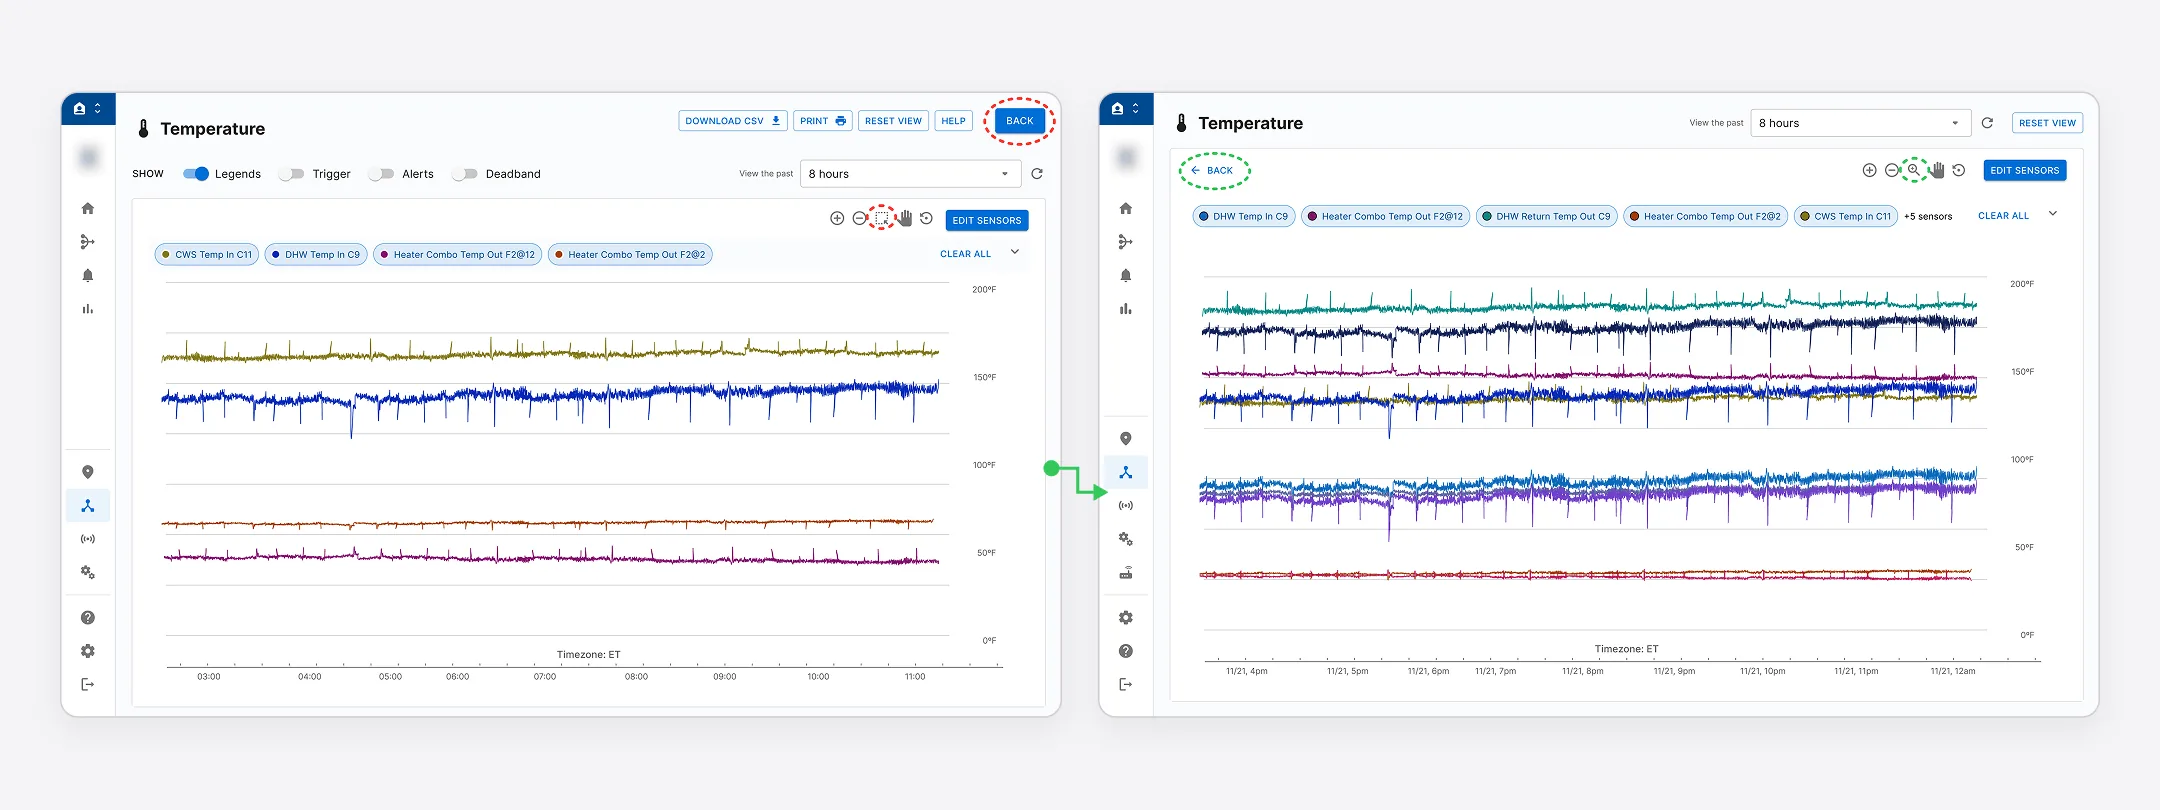
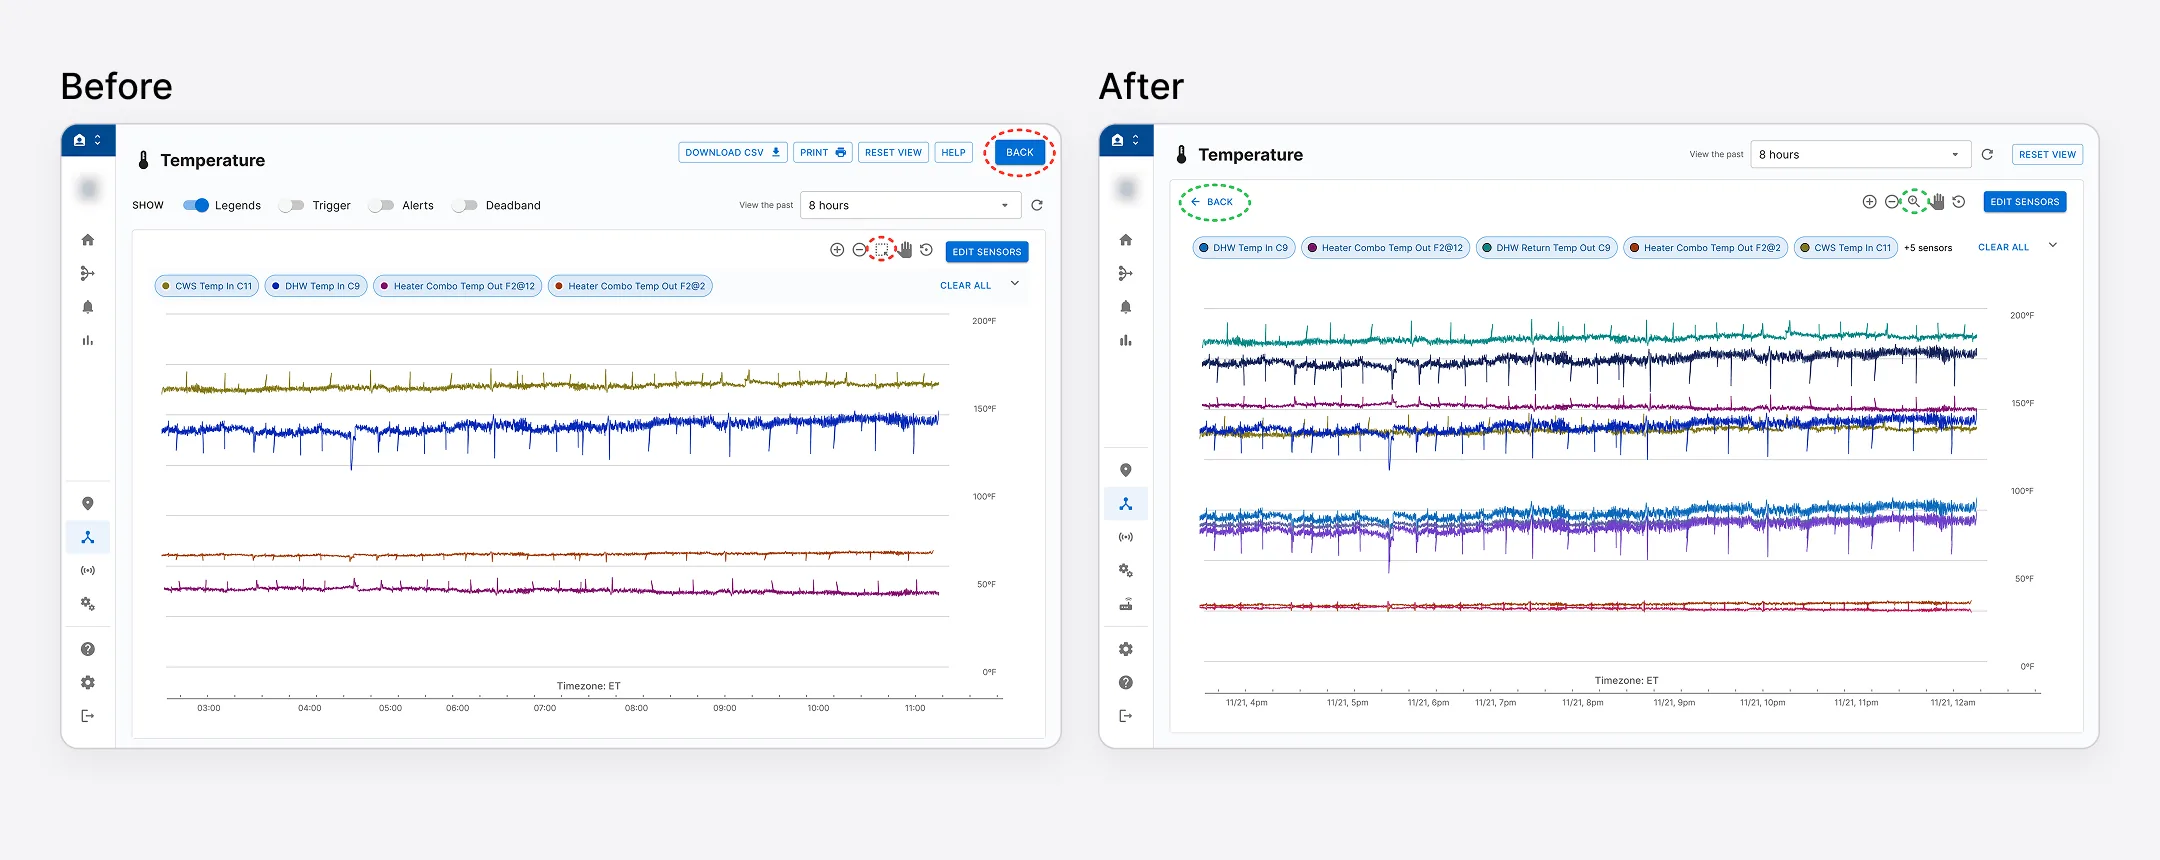
Replace Changes after testing images with labeled Before and After versions
Claude-Session: https://claude.ai/code/session_01ScZWVVZRBYns7XMJaBR5Qy

diff --git a/case-studies/charting.html b/case-studies/charting.html
@@ -167,11 +167,11 @@
 <p>We fixed them by removing the second “Clear” button, making “Back” more visible, enabling zoom by click-and-drag or click-and-scroll, adding a collapse option for filter chips, and changing the box selection icon.</p>
 <h4>Changes after testing - Multichart view</h4>
 <figure class="figure figure--wide">
-<img src="../assets/img/charting-final-multichart.webp" alt="Final multichart view mockups, before and after testing. The first screen marks the old box selection icon and the second Clear All button in red. The second screen shows the fixed zoom icon in green and a single Clear All button, with an Add chart button below the charts" width="2000" height="957" loading="lazy">
+<img src="../assets/img/charting-final-multichart.webp?v=2" alt="Multichart view mockups labeled Before and After. Before marks the old box selection icon and the second Clear All button in red. After shows the new zoom icon in green and a single Clear All button, with an Add chart button below the charts" width="2000" height="1030" loading="lazy">
 </figure>
 <h4>Changes after testing - Full screen popup</h4>
 <figure class="figure figure--wide">
-<img src="../assets/img/charting-final-fullscreen.webp" alt="Final full screen chart mockups, before and after testing. The first screen marks the Back button at the top right in red. The second screen moves a more visible Back button to the top left and marks the new zoom icon in green" width="2160" height="810" loading="lazy">
+<img src="../assets/img/charting-final-fullscreen.webp?v=2" alt="Full screen chart mockups labeled Before and After. Before marks the Back button at the top right in red. After moves the Back button to the top left and marks the new zoom icon in green" width="2160" height="860" loading="lazy">
 </figure>
 <p>The 4 smaller issues stay open for follow-up:</p>
 <ul>
